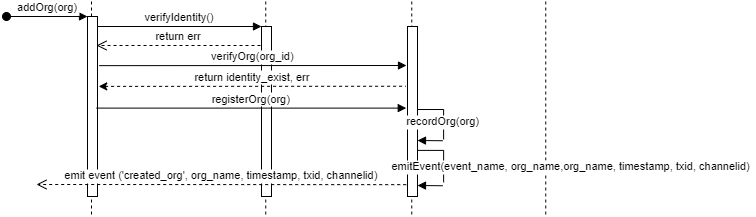
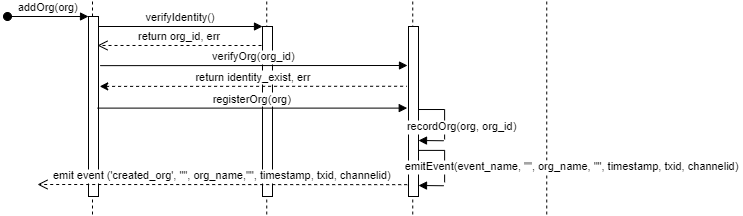
18.08.21.1

Changed region(s): [[0.0, 0.0, 1.0, 1.0]]

diff --git a/chaincode/implementation/organization.go b/chaincode/implementation/organization.go
@@ -34,7 +34,7 @@ func (cc *Chaincode) verifyOrgRA(stub shim.ChaincodeStubInterface, RA ROAMINGAGR
 	return false
 }
 
-func (cc *Chaincode) recordOrg(stub shim.ChaincodeStubInterface, organization Organization, id string)(error) {
+func (cc *Chaincode) recordOrg(stub shim.ChaincodeStubInterface, organization Organization, org_id string)(error) {
 	CHANNEL_ENV := stub.GetChannelID()
 	idBytes, err := json.Marshal(organization)
 	if err != nil {
@@ -42,7 +42,7 @@ func (cc *Chaincode) recordOrg(stub shim.ChaincodeStubInterface, organization Or
 		return errors.New(ERRORParsingID + err.Error())
 	}
 
-	err = stub.PutState(id, idBytes) // PuState of Client (Organization) Identity and Organtization struct
+	err = stub.PutState(org_id, idBytes) // PuState of Client (Organization) Identity and Organtization struct
 	if err != nil {
 		log.Errorf("[%s][%s][recordOrg] Error storing: %v", CHANNEL_ENV, ERRORStoringOrg, err.Error())
 		return errors.New(ERRORStoringIdentity + err.Error())
@@ -50,7 +50,7 @@ func (cc *Chaincode) recordOrg(stub shim.ChaincodeStubInterface, organization Or
 
 	store := make(map[string]Organization)
 	store["org"] = organization
-	err = stub.PutState(store["org"].mno_name, []byte(id)) // PuState of Client (Organization) Name and Organtization Identity
+	err = stub.PutState(store["org"].mno_name, []byte(org_id)) // PuState of Client (Organization) Name and Organtization Identity
 	if err != nil {
 		log.Errorf("[%s][%s][recordOrg] Error storing: %v", CHANNEL_ENV, ERRORStoringOrg, err.Error())
 		return errors.New(ERRORStoringIdentity + err.Error())

diff --git a/chaincode/implementation/proxy.go b/chaincode/implementation/proxy.go
@@ -262,9 +262,9 @@ func (cc *Chaincode) Invoke(stub shim.ChaincodeStubInterface) sc.Response {
     return shim.Success([]byte("OK"))
 }
 
-func (cc *Chaincode) registerOrg(stub shim.ChaincodeStubInterface, organization Organization, id string) (error){
+func (cc *Chaincode) registerOrg(stub shim.ChaincodeStubInterface, organization Organization, org_id string) (error){
     //record organizations
-    err := cc.recordOrg(stub, organization, id)
+    err := cc.recordOrg(stub, organization, org_id)
     store := make(map[string]Organization)  //mapping string to Organtization data type
     store["org"] = organization
     

diff --git a/chaincode/README.md b/chaincode/README.md
@@ -16,6 +16,7 @@
 |addOrg                    |created_org             |-                      |
 - Any MNO must be registered before drafting a roaming agreement.
 - Identity is verified at each interaction.
+- No status is set
 - An event is emitted to set the state `created_org`.
 <img src="https://github.com/sfl0r3nz05/NLP-DLT/blob/main/chaincode/design/images/01.png">       
 <img src="https://github.com/sfl0r3nz05/NLP-DLT/blob/main/chaincode/design/images/02.png">
